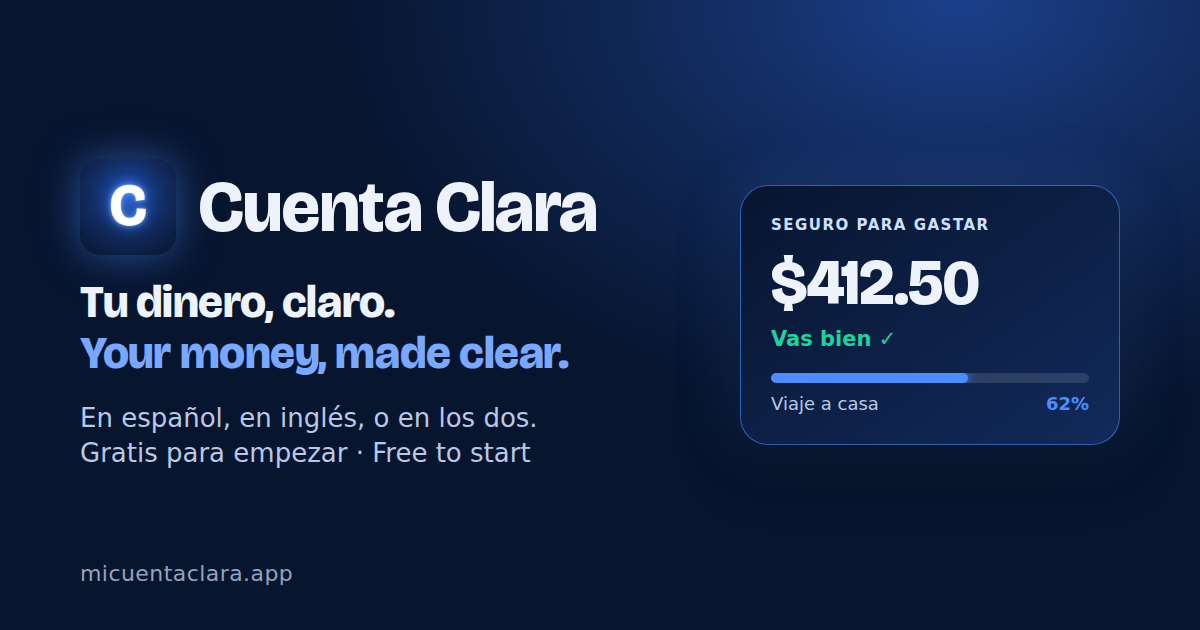
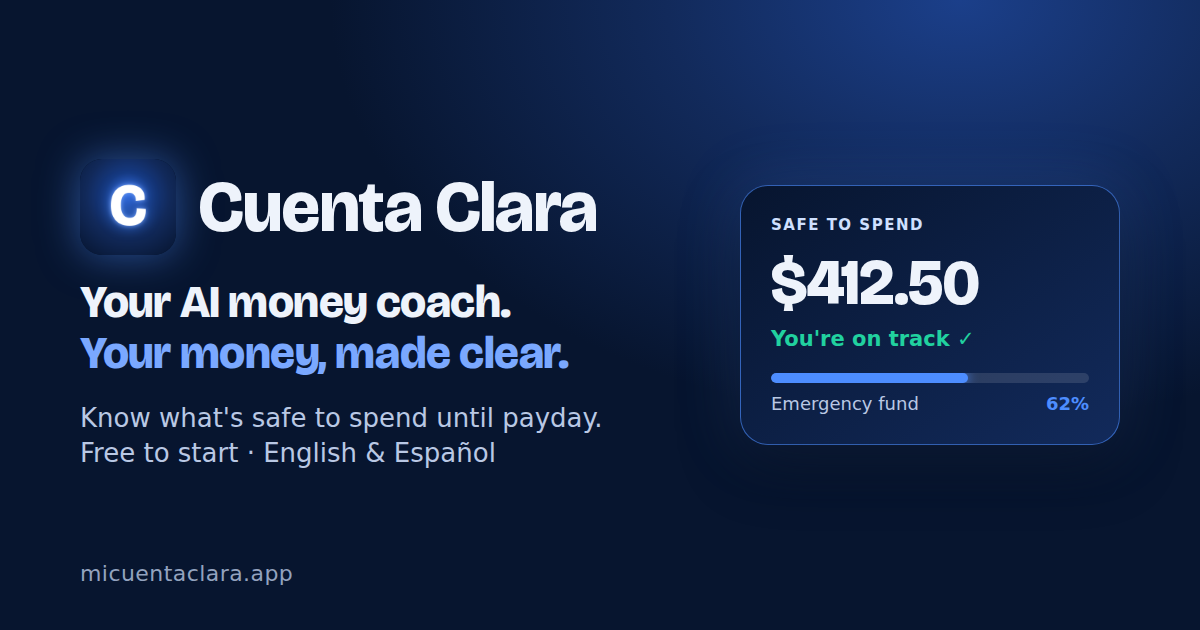
Landing: lead with Clara and the tech, for a global audience
Order: Clara (AI money coach) -> how it works -> smart money tech -> learn ->
work & business (new: paycheck mode, tax set-aside, pay stub check, debt plan)
-> veterans -> bilingual families and sends. Headline line is now 'An AI money
coach that knows your numbers'; the floating send card is a savings goal.
First visit: Spanish only for Spanish-language browsers, English for everyone
else (UK, Canada, ...). Link preview image leads with the AI coach.

Claude-Session: https://claude.ai/code/session_01Wzn6Erh6jxjWKukRy5UagZ

diff --git a/src/app/page.tsx b/src/app/page.tsx
@@ -38,6 +38,19 @@ export default async function Landing() {
     { icon: "check", title: t("vetBenefitsTitle"), text: t("vetBenefitsText") },
   ];
 
+  const claraFeatures: { icon: IconName; title: string; text: string }[] = [
+    { icon: "wallet", title: t("clara1Title"), text: t("clara1Text") },
+    { icon: "activity", title: t("clara2Title"), text: t("clara2Text") },
+    { icon: "heart", title: t("clara3Title"), text: t("clara3Text") },
+  ];
+
+  const bizFeatures: { icon: IconName; title: string; text: string }[] = [
+    { icon: "calendar", title: t("biz1Title"), text: t("biz1Text") },
+    { icon: "shield", title: t("biz2Title"), text: t("biz2Text") },
+    { icon: "camera", title: t("biz3Title"), text: t("biz3Text") },
+    { icon: "target", title: t("biz4Title"), text: t("biz4Text") },
+  ];
+
   const faq = (["Safe", "Free", "Bank", "ForMe", "Data", "Numbers"] as const).map((k) => ({
     q: t(`faq${k}Q`),
     a: t(`faq${k}A`),
@@ -71,8 +84,8 @@ export default async function Landing() {
               onTrack: t("artOnTrack"),
               ask: t("artAsk"),
               answer: t("artAnswer"),
-              send: t("artSend"),
-              sent: t("artSent"),
+              send: t("artGoal"),
+              sent: t("artGoalPct"),
             }}
             amount={formatUSD(SAMPLE_LEFT)}
           />
@@ -100,7 +113,29 @@ export default async function Landing() {
           </ul>
         </section>
 
-        {/* 3. How it works */}
+        {/* 3. Clara, the AI money coach */}
+        <section className="lp-wrap lp-section">
+          <div className="stack-sm">
+            <p className="t-label lp-eyebrow">{t("claraEyebrow")}</p>
+            <h2 className="t-title">{t("claraTitle")}</h2>
+            <p className="t-body muted">{t("claraSub")}</p>
+          </div>
+          <ul className="lp-features lp-features--three">
+            {claraFeatures.map((f) => (
+              <li key={f.title} className="card lp-feature lp-feature--glow">
+                <span className="row-icon row-icon--clara" aria-hidden>
+                  <Icon name={f.icon} size={20} />
+                </span>
+                <span className="stack-sm">
+                  <span className="t-heading">{f.title}</span>
+                  <span className="t-body muted">{f.text}</span>
+                </span>
+              </li>
+            ))}
+          </ul>
+        </section>
+
+        {/* 4. How it works */}
         <section className="lp-wrap lp-section">
           <h2 className="t-title">{t("howTitle")}</h2>
           <ol className="lp-steps">
@@ -115,11 +150,22 @@ export default async function Landing() {
           </ol>
         </section>
 
-        {/* 4. Big number preview + second CTA */}
+        {/* 5. Technology: the big number preview + second CTA */}
         <section className="lp-wrap lp-section lp-number">
           <div className="lp-number__text">
+            <p className="t-label lp-eyebrow">{t("techEyebrow")}</p>
             <h2 className="t-title">{t("numberTitle")}</h2>
             <p className="t-body muted">{t("numberSub")}</p>
+            <ul className="lp-checks">
+              {[t("tech1"), t("tech2"), t("tech3"), t("tech4")].map((line) => (
+                <li key={line}>
+                  <span className="plus-feature__check" aria-hidden>
+                    <Icon name="check" size={14} />
+                  </span>
+                  {line}
+                </li>
+              ))}
+            </ul>
             <CtaLink placement="number" className="btn btn--primary btn--cta lp-desktop-inline">
               {t("cta")}
             </CtaLink>
@@ -146,62 +192,12 @@ export default async function Landing() {
           </CtaLink>
         </section>
 
-        {/* 5. Family sends */}
-        <section className="lp-band">
-          <div className="lp-wrap lp-section lp-sends">
-            <div>
-              <h2 className="t-title">{t("sendsTitle")}</h2>
-              <p className="t-body lp-sends__sub">{t("sendsSub")}</p>
-            </div>
-            <div className="card lp-sends__card">
-              <p className="t-label">{t("sendsMock")}</p>
-              <div className="row row--between">
-                <span className="t-heading num">{t("sendsMockPlan")}</span>
-                <span className="t-label num lp-sends__receives">{t("sendsMockReceives")}</span>
-              </div>
-              <p className="t-caption muted">1 USD = RD$ 63.42</p>
-              <div className="stack-sm">
-                <div className="row row--between">
-                  <span className="t-caption muted">{t("sendsMockProgress")}</span>
-                  <span className="t-caption num">$100.00 / $200.00</span>
-                </div>
-                <div className="progress progress--mango" aria-hidden>
-                  <div className="progress__fill" style={{ width: "50%" }} />
-                </div>
-              </div>
-            </div>
-          </div>
-        </section>
-
-        {/* 6. Veterans: built by a veteran; free tools, estimates only */}
-        <section className="lp-band lp-band--clara">
-          <div className="lp-wrap lp-section">
-            <div className="stack-sm">
-              <p className="t-label lp-eyebrow">{t("vetEyebrow")}</p>
-              <h2 className="t-title">{t("vetTitle")}</h2>
-              <p className="t-body">{t("vetSub")}</p>
-            </div>
-            <ul className="lp-features">
-              {vetTools.map((tool) => (
-                <li key={tool.title} className="card lp-feature">
-                  <Icon name={tool.icon} />
-                  <span className="stack-sm">
-                    <span className="t-heading">{tool.title}</span>
-                    <span className="t-body muted">{tool.text}</span>
-                  </span>
-                </li>
-              ))}
-            </ul>
-            <CtaLink placement="veterans" className="btn btn--primary btn--cta lp-self-start">
-              {t("cta")}
-            </CtaLink>
-            <p className="t-caption muted">{t("vetNote")}</p>
-          </div>
-        </section>
-
-        {/* 7. Free tools, no account needed */}
+        {/* 6. Education: free tools, no account needed */}
         <section className="lp-wrap lp-section">
-          <h2 className="t-title">{t("freeTitle")}</h2>
+          <div className="stack-sm">
+            <p className="t-label lp-eyebrow">{t("eduEyebrow")}</p>
+            <h2 className="t-title">{t("freeTitle")}</h2>
+          </div>
           <div className="lp-features">
             <Link href="/estilo" className="card lp-feature lp-feature--link">
               <Icon name="heart" />
@@ -230,7 +226,83 @@ export default async function Landing() {
           </div>
         </section>
 
-        {/* 8. FAQ: closed accordion, six questions */}
+        {/* 7. Work and business: irregular pay, side hustles, self-employed */}
+        <section className="lp-wrap lp-section">
+          <div className="stack-sm">
+            <p className="t-label lp-eyebrow">{t("bizEyebrow")}</p>
+            <h2 className="t-title">{t("bizTitle")}</h2>
+            <p className="t-body muted">{t("bizSub")}</p>
+          </div>
+          <ul className="lp-features lp-features--two">
+            {bizFeatures.map((f) => (
+              <li key={f.title} className="card lp-feature">
+                <span className="row-icon row-icon--positive" aria-hidden>
+                  <Icon name={f.icon} size={20} />
+                </span>
+                <span className="stack-sm">
+                  <span className="t-heading">{f.title}</span>
+                  <span className="t-body muted">{f.text}</span>
+                </span>
+              </li>
+            ))}
+          </ul>
+        </section>
+
+        {/* 8. Veterans: built by a veteran; free tools, estimates only */}
+        <section className="lp-band lp-band--clara">
+          <div className="lp-wrap lp-section">
+            <div className="stack-sm">
+              <p className="t-label lp-eyebrow">{t("vetEyebrow")}</p>
+              <h2 className="t-title">{t("vetTitle")}</h2>
+              <p className="t-body">{t("vetSub")}</p>
+            </div>
+            <ul className="lp-features">
+              {vetTools.map((tool) => (
+                <li key={tool.title} className="card lp-feature">
+                  <Icon name={tool.icon} />
+                  <span className="stack-sm">
+                    <span className="t-heading">{tool.title}</span>
+                    <span className="t-body muted">{tool.text}</span>
+                  </span>
+                </li>
+              ))}
+            </ul>
+            <CtaLink placement="veterans" className="btn btn--primary btn--cta lp-self-start">
+              {t("cta")}
+            </CtaLink>
+            <p className="t-caption muted">{t("vetNote")}</p>
+          </div>
+        </section>
+
+        {/* 9. Bilingual families and family sends */}
+        <section className="lp-band">
+          <div className="lp-wrap lp-section lp-sends">
+            <div className="stack-sm">
+              <p className="t-label lp-eyebrow">{t("familyEyebrow")}</p>
+              <h2 className="t-title">{t("sendsTitle")}</h2>
+              <p className="t-body lp-sends__sub">{t("sendsSub")}</p>
+            </div>
+            <div className="card lp-sends__card">
+              <p className="t-label">{t("sendsMock")}</p>
+              <div className="row row--between">
+                <span className="t-heading num">{t("sendsMockPlan")}</span>
+                <span className="t-label num lp-sends__receives">{t("sendsMockReceives")}</span>
+              </div>
+              <p className="t-caption muted">1 USD = RD$ 63.42</p>
+              <div className="stack-sm">
+                <div className="row row--between">
+                  <span className="t-caption muted">{t("sendsMockProgress")}</span>
+                  <span className="t-caption num">$100.00 / $200.00</span>
+                </div>
+                <div className="progress progress--mango" aria-hidden>
+                  <div className="progress__fill" style={{ width: "50%" }} />
+                </div>
+              </div>
+            </div>
+          </div>
+        </section>
+
+        {/* 10. FAQ: closed accordion, six questions */}
         <section className="lp-wrap lp-section lp-faq">
           <h2 className="t-title">{t("faqTitle")}</h2>
           <div className="lp-faq__list">
@@ -248,7 +320,7 @@ export default async function Landing() {
           </div>
         </section>
 
-        {/* 9. Final CTA */}
+        {/* 11. Final CTA */}
         <section className="lp-wrap lp-final">
           <h2 className="t-title">{t("finalTitle")}</h2>
           <p className="t-body muted">{t("finalSub")}</p>
@@ -296,11 +368,13 @@ function HeroArt({ labels, amount }: { labels: Record<"safe" | "onTrack" | "ask"
       </div>
       <div className="lp-float lp-float--send">
         <p className="lp-float__row">
-          <span className="lp-float__avatar">M</span>
+          <span className="lp-float__avatar lp-float__avatar--goal">
+            <Icon name="target" size={14} />
+          </span>
           <span className="grow">{labels.send}</span>
-          <span className="lp-float__tag">{labels.sent}</span>
+          <span className="lp-float__pct">{labels.sent}</span>
         </p>
-        <span className="lp-float__bar">
+        <span className="lp-float__bar lp-float__bar--goal">
           <span />
         </span>
       </div>

diff --git a/src/i18n/request.ts b/src/i18n/request.ts
@@ -3,7 +3,7 @@ import { getRequestConfig } from "next-intl/server";
 import { defaultLocale, isLocale, LOCALE_COOKIE, type Locale } from "./config";
 
 // No locale in the URL: the choice lives in a cookie so the toggle works on every screen.
-// First visit falls back to the browser's language, then Spanish.
+// First visit follows the browser: Spanish if the phone is in Spanish, English otherwise.
 export default getRequestConfig(async () => {
   const fromLink = (await headers()).get("x-cc-locale"); // set by middleware from ?lang=
   const saved = fromLink ?? (await cookies()).get(LOCALE_COOKIE)?.value;
@@ -11,8 +11,8 @@ export default getRequestConfig(async () => {
   if (isLocale(saved)) {
     locale = saved;
   } else {
-    const accept = (await headers()).get("accept-language") ?? "";
-    if (accept.toLowerCase().startsWith("en")) locale = "en";
+    const accept = ((await headers()).get("accept-language") ?? "").trim().toLowerCase();
+    locale = accept.startsWith("es") ? "es" : "en";
   }
   return {
     locale,

diff --git a/src/app/globals.css b/src/app/globals.css
@@ -3829,3 +3829,43 @@ button.explore-tile {
     width: 230px;
   }
 }
+
+/* Landing sections: feature grids, glowing Clara cards, check lists */
+.lp-feature--glow {
+  border-color: color-mix(in srgb, var(--glow) 25%, transparent);
+  box-shadow: var(--card-shadow), var(--card-glow);
+}
+.lp-checks {
+  list-style: none;
+  margin: 0;
+  padding: 0;
+  display: flex;
+  flex-direction: column;
+  gap: var(--space-2);
+}
+.lp-checks li {
+  display: flex;
+  align-items: center;
+  gap: var(--space-2);
+  font-size: 15px;
+  font-weight: 600;
+}
+.lp-float__avatar--goal {
+  background: color-mix(in srgb, var(--positive) 22%, transparent);
+  color: var(--positive);
+}
+.lp-float__pct {
+  font-weight: 700;
+  color: var(--positive);
+}
+.lp-float__bar--goal > span {
+  width: 62%;
+}
+@media (min-width: 900px) {
+  .lp-features--three {
+    grid-template-columns: repeat(3, 1fr);
+  }
+  .lp-features--two {
+    grid-template-columns: repeat(2, 1fr);
+  }
+}
